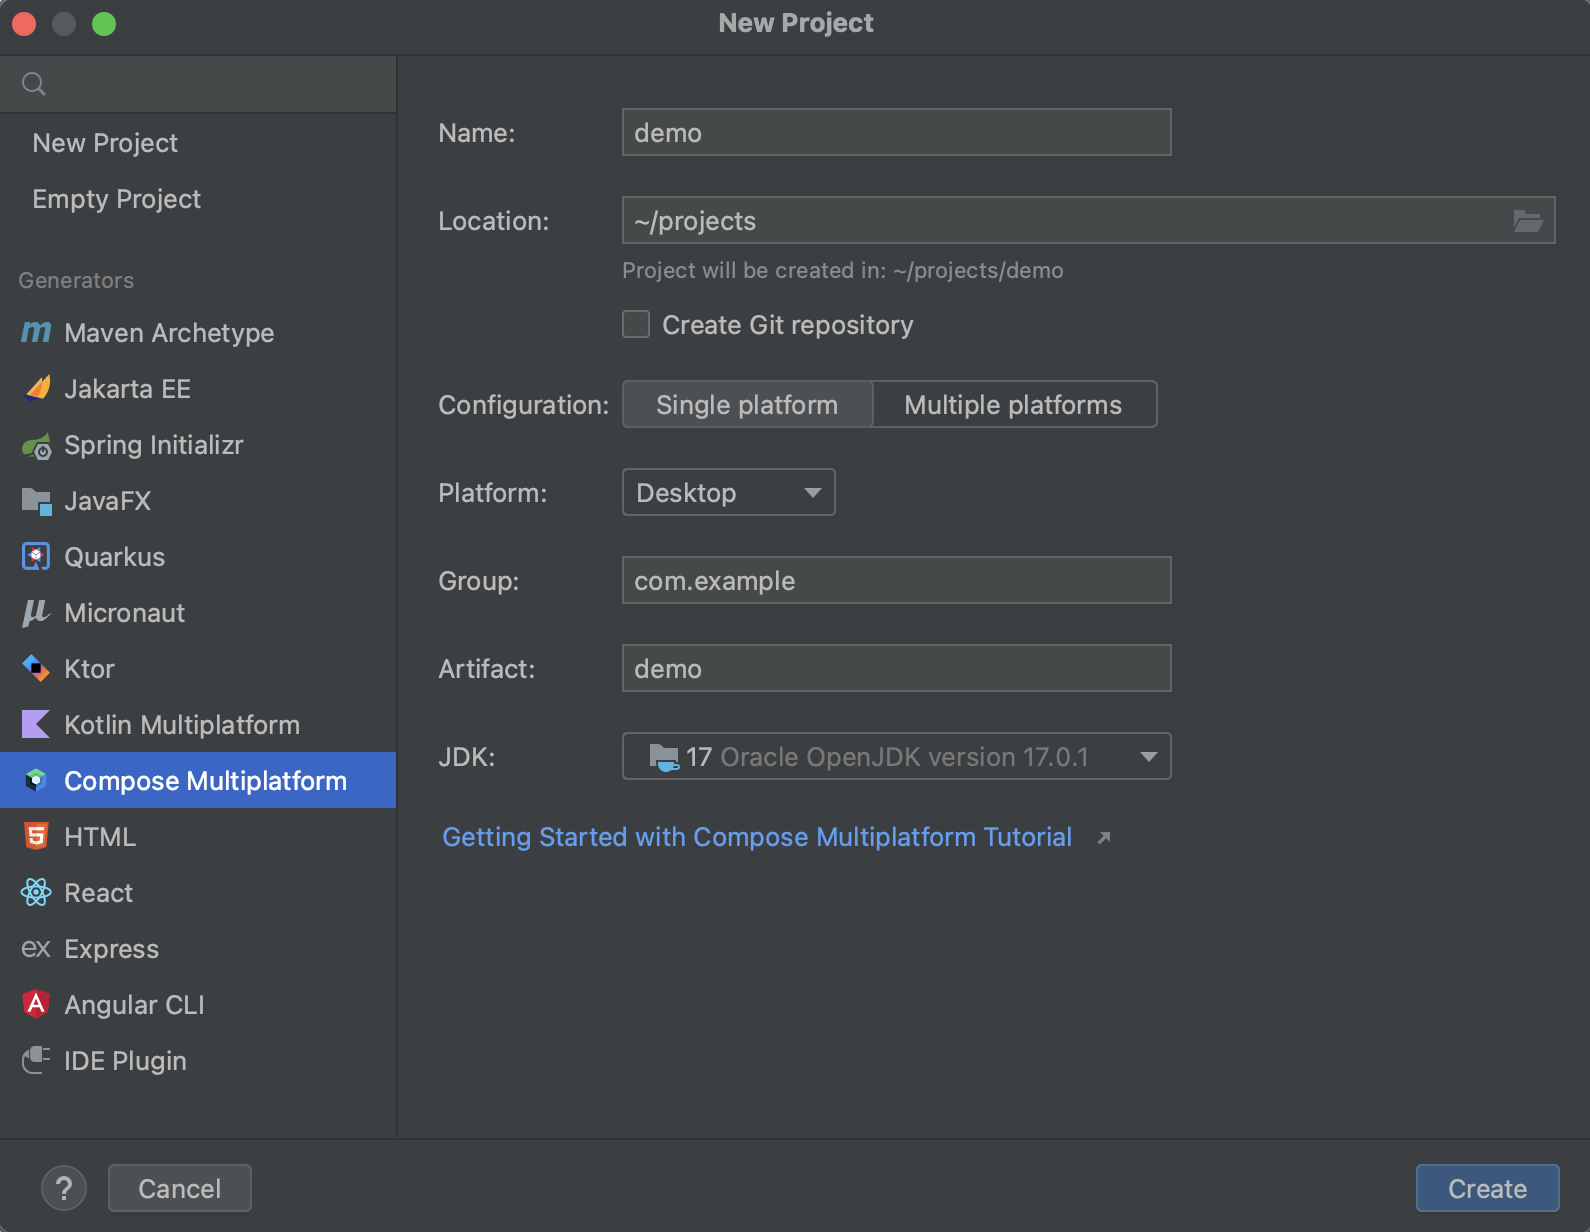
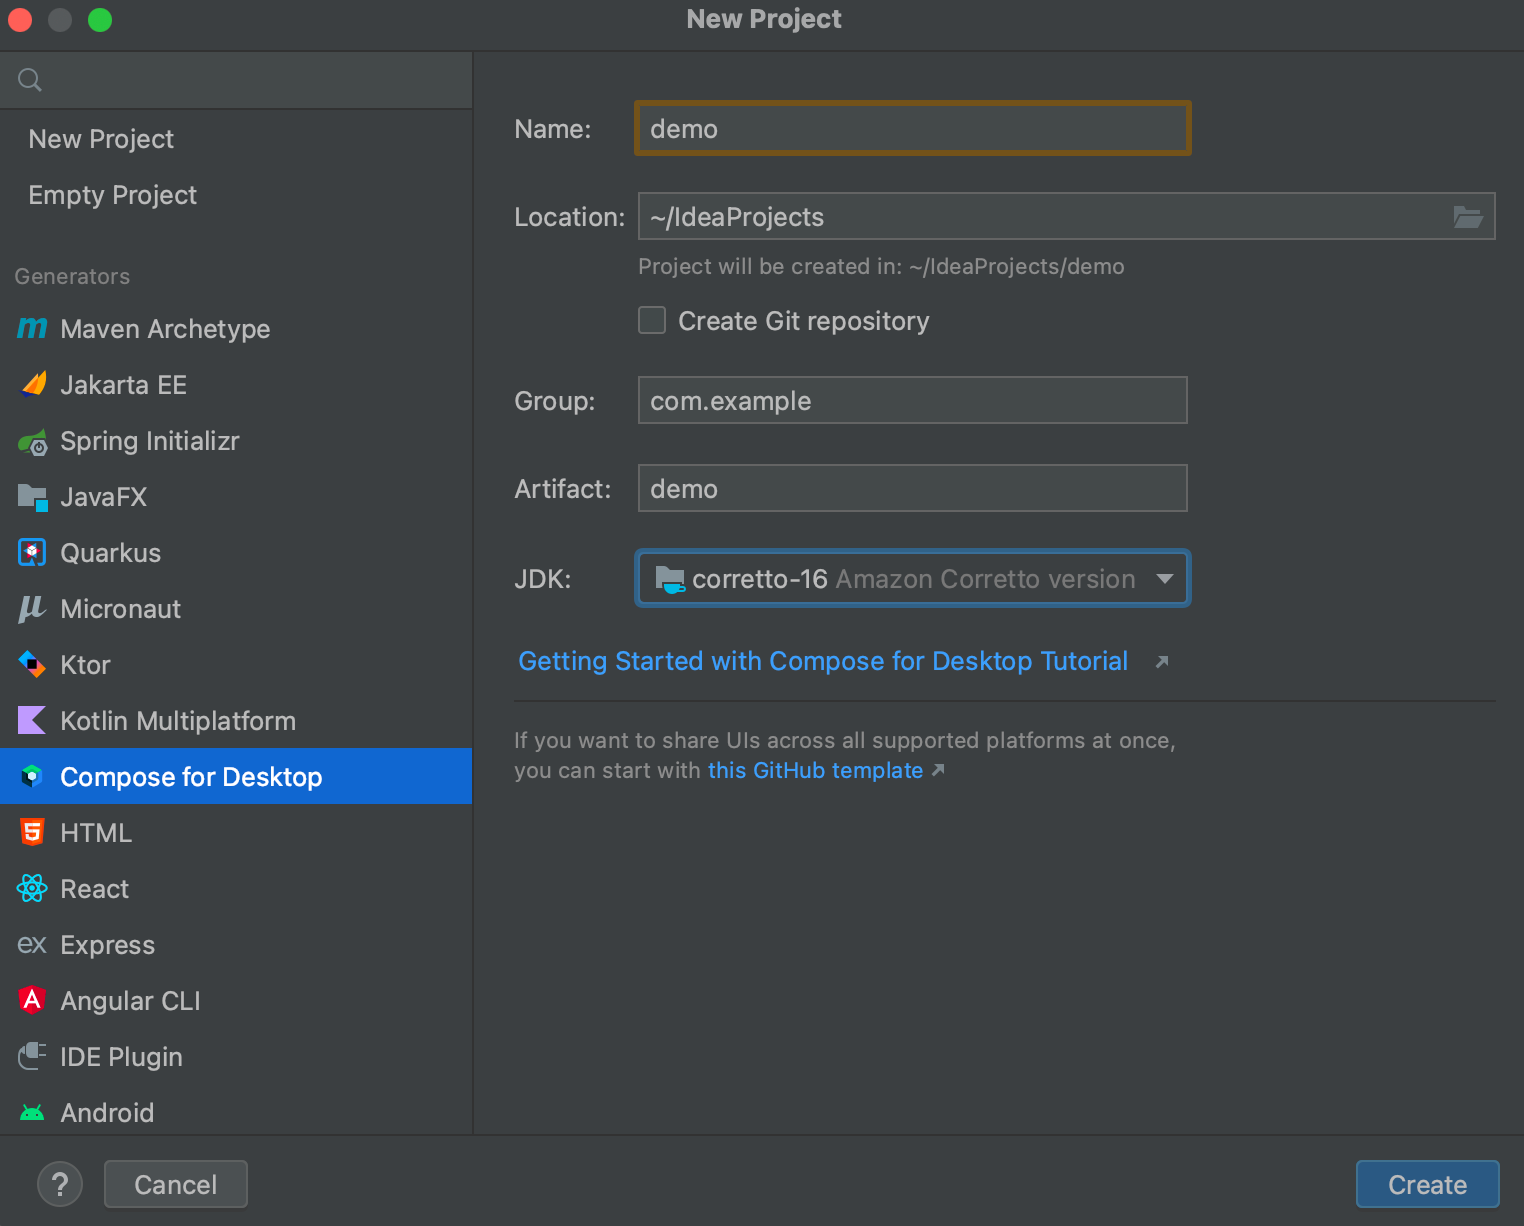
update: new wizard

diff --git a/README.md b/README.md
@@ -25,7 +25,8 @@ The plugin shows how a particular composable function looks in the IDE.
 
 ## Creating a new project with an IDE
 
-Starting with 2020.3, IntelliJ IDEA comes with a new project wizard that can automatically create a Compose application.
+Starting with 2020.3, IntelliJ IDEA comes with a new project wizard that can automatically create a Compose for Desktop
+project.
 
 > **Note**
 > When creating a project, select JDK 11 or later. To use the native distribution packaging, select JDK 15 or later.
